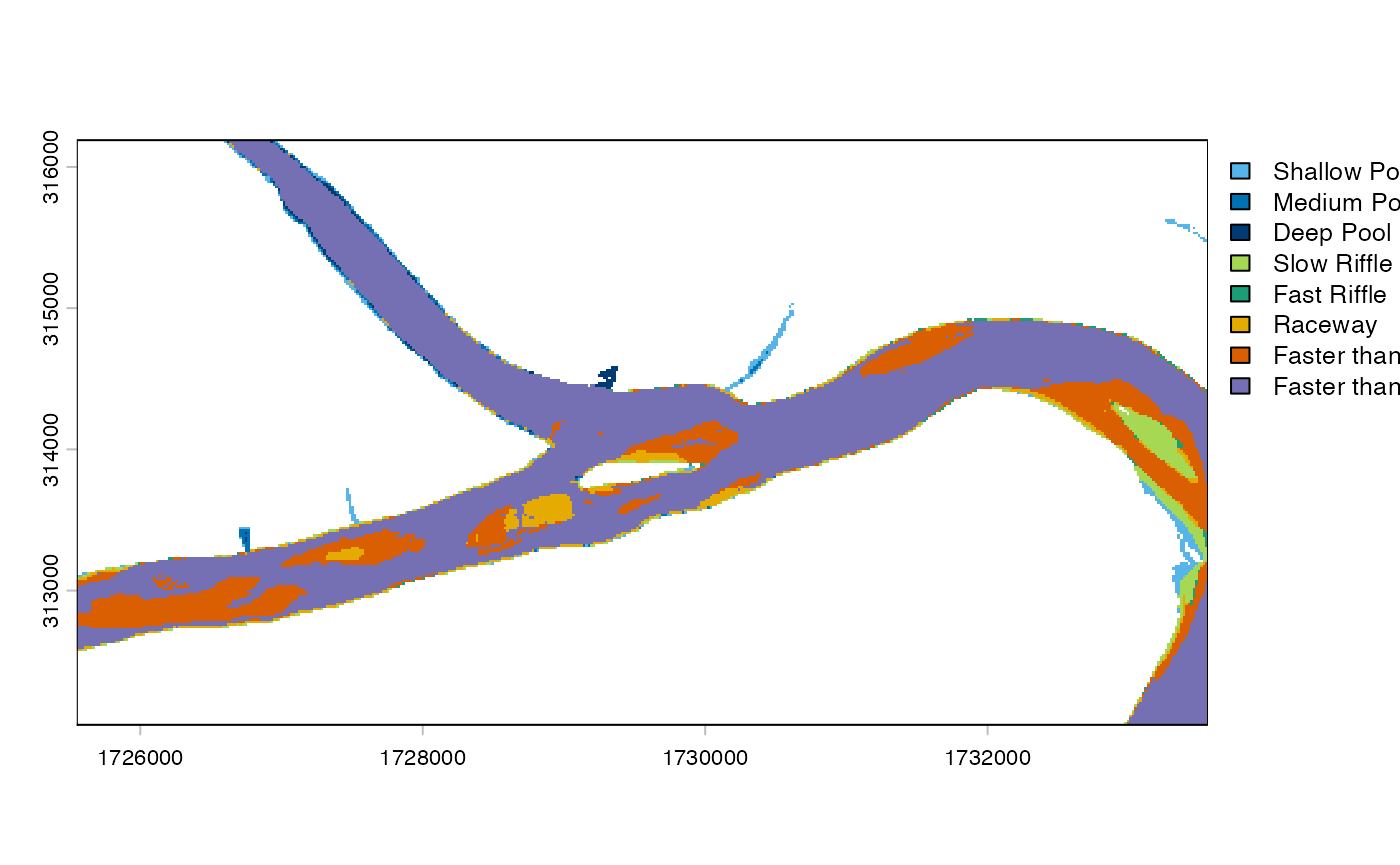
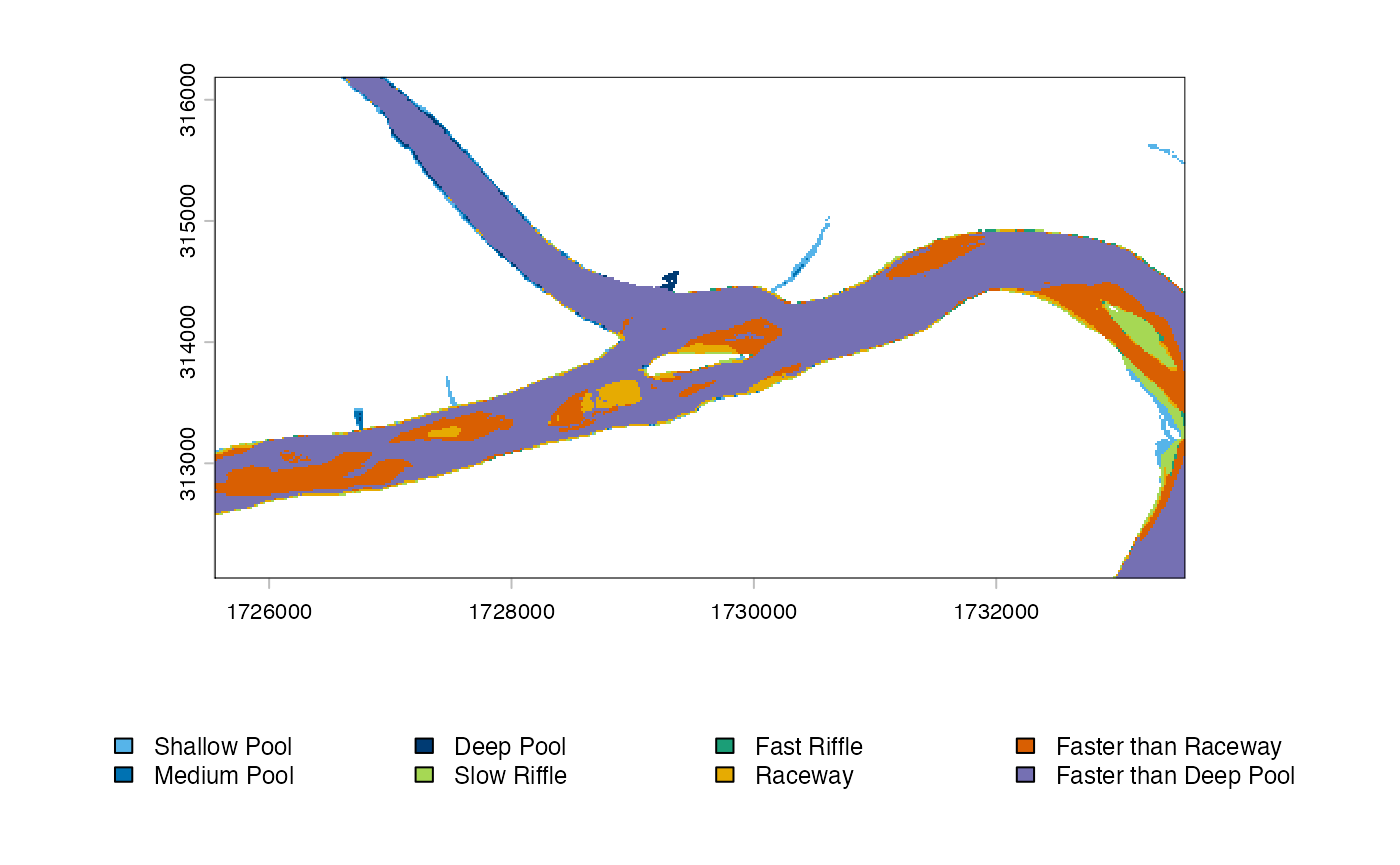
Built site for hydromeso@0.1.0:

diff --git a/articles/hec-ras-example.html b/articles/hec-ras-example.html
@@ -114,8 +114,7 @@ scheme.</p>
 <span>  <span class="va">classes</span>,</span>
 <span>  main <span class="op">=</span> <span class="st">"Big Blue-Kansas Rivers mesohabitats — 31 May 2022"</span>,</span>
 <span>  axes <span class="op">=</span> <span class="cn">FALSE</span>,</span>
-<span>  palette <span class="op">=</span> <span class="va">class_colors</span>,</span>
-<span>  plg <span class="op">=</span> <span class="fu"><a href="https://rdrr.io/r/base/list.html" class="external-link">list</a></span><span class="op">(</span>x <span class="op">=</span> <span class="st">"bottom"</span>, ncol <span class="op">=</span> <span class="fl">4</span>, cex <span class="op">=</span> <span class="fl">0.75</span><span class="op">)</span></span>
+<span>  palette <span class="op">=</span> <span class="va">class_colors</span></span>
 <span><span class="op">)</span></span></code></pre></div>
 <div class="figure">
 <img src="hec-ras-example_files/figure-html/hecras-classification-1.png" class="r-plt" alt="Eight-class hydraulic mesohabitats derived from the real HEC-RAS sample." width="960"><p class="caption">
@@ -145,8 +144,7 @@ rectangle selects the central part of the included river sample:</p>
 <span><span class="op">)</span></span>
 <span><span class="va">cropped</span> <span class="op">&lt;-</span> <span class="fu"><a href="../reference/classify_mesohabitat_raster.html">classify_mesohabitat_raster</a></span><span class="op">(</span><span class="va">h</span><span class="op">$</span><span class="va">depth</span>, <span class="va">h</span><span class="op">$</span><span class="va">velocity</span>, aoi <span class="op">=</span> <span class="va">aoi</span><span class="op">)</span></span>
 <span><span class="fu"><a href="../reference/plot_mesohabitat.html">plot_mesohabitat</a></span><span class="op">(</span></span>
-<span>  <span class="va">cropped</span>, axes <span class="op">=</span> <span class="cn">FALSE</span>, palette <span class="op">=</span> <span class="va">class_colors</span>,</span>
-<span>  plg <span class="op">=</span> <span class="fu"><a href="https://rdrr.io/r/base/list.html" class="external-link">list</a></span><span class="op">(</span>x <span class="op">=</span> <span class="st">"bottom"</span>, ncol <span class="op">=</span> <span class="fl">4</span>, cex <span class="op">=</span> <span class="fl">0.75</span><span class="op">)</span></span>
+<span>  <span class="va">cropped</span>, axes <span class="op">=</span> <span class="cn">FALSE</span>, palette <span class="op">=</span> <span class="va">class_colors</span></span>
 <span><span class="op">)</span></span></code></pre></div>
 <div class="figure">
 <img src="hec-ras-example_files/figure-html/hecras-aoi-1.png" class="r-plt" alt="Mesohabitat output cropped to a central area of interest." width="960"><p class="caption">

diff --git a/reference/plot_mesohabitat.html b/reference/plot_mesohabitat.html
@@ -48,6 +48,9 @@
 <span>  label_col <span class="op">=</span> <span class="st">"mesohabitat"</span>,</span>
 <span>  scheme <span class="op">=</span> <span class="fu">.scheme_from_object</span><span class="op">(</span><span class="va">x</span><span class="op">)</span>,</span>
 <span>  palette <span class="op">=</span> <span class="fu"><a href="mesohabitat_palette.html">mesohabitat_palette</a></span><span class="op">(</span><span class="va">scheme</span><span class="op">)</span>,</span>
+<span>  legend <span class="op">=</span> <span class="cn">TRUE</span>,</span>
+<span>  legend_ncol <span class="op">=</span> <span class="fl">4</span>,</span>
+<span>  legend_cex <span class="op">=</span> <span class="fl">0.75</span>,</span>
 <span>  <span class="va">...</span></span>
 <span><span class="op">)</span></span></code></pre></div>
     </div>
@@ -74,6 +77,18 @@
 
 <dt id="arg-palette">palette<a class="anchor" aria-label="anchor" href="#arg-palette"></a></dt>
 <dd><p>Named colors.</p></dd>
+
+
+<dt id="arg-legend">legend<a class="anchor" aria-label="anchor" href="#arg-legend"></a></dt>
+<dd><p>Show one shared legend below the plot or plot panels.</p></dd>
+
+
+<dt id="arg-legend-ncol">legend_ncol<a class="anchor" aria-label="anchor" href="#arg-legend-ncol"></a></dt>
+<dd><p>Number of columns in the shared legend.</p></dd>
+
+
+<dt id="arg-legend-cex">legend_cex<a class="anchor" aria-label="anchor" href="#arg-legend-cex"></a></dt>
+<dd><p>Legend text size multiplier.</p></dd>
 
 
 <dt id="arg--">...<a class="anchor" aria-label="anchor" href="#arg--"></a></dt>

diff --git a/articles/hec-ras-example.md b/articles/hec-ras-example.md
@@ -72,8 +72,7 @@ plot_mesohabitat(
   classes,
   main = "Big Blue-Kansas Rivers mesohabitats — 31 May 2022",
   axes = FALSE,
-  palette = class_colors,
-  plg = list(x = "bottom", ncol = 4, cex = 0.75)
+  palette = class_colors
 )
 ```
 
@@ -106,8 +105,7 @@ aoi <- terra::as.polygons(
 )
 cropped <- classify_mesohabitat_raster(h$depth, h$velocity, aoi = aoi)
 plot_mesohabitat(
-  cropped, axes = FALSE, palette = class_colors,
-  plg = list(x = "bottom", ncol = 4, cex = 0.75)
+  cropped, axes = FALSE, palette = class_colors
 )
 ```
 

diff --git a/reference/plot_mesohabitat.md b/reference/plot_mesohabitat.md
@@ -13,6 +13,9 @@ plot_mesohabitat(
   label_col = "mesohabitat",
   scheme = .scheme_from_object(x),
   palette = mesohabitat_palette(scheme),
+  legend = TRUE,
+  legend_ncol = 4,
+  legend_cex = 0.75,
   ...
 )
 ```
@@ -38,6 +41,18 @@ plot_mesohabitat(
 - palette:
 
   Named colors.
+
+- legend:
+
+  Show one shared legend below the plot or plot panels.
+
+- legend_ncol:
+
+  Number of columns in the shared legend.
+
+- legend_cex:
+
+  Legend text size multiplier.
 
 - ...:
 
